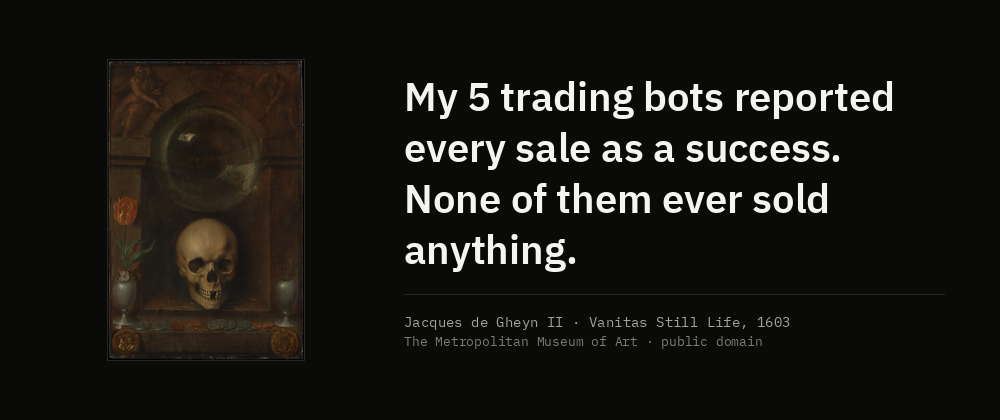
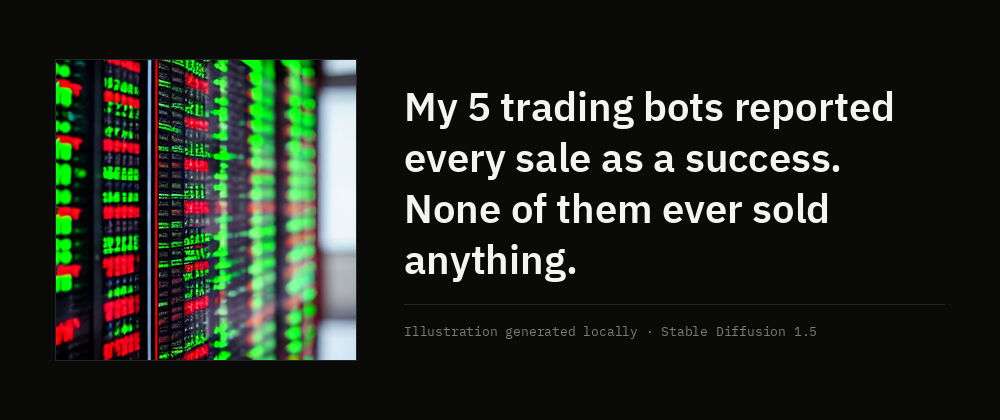
Generated on-topic cover art (SD1.5, local) replacing the Met painting set
Each banner now shows the hardware the article is actually about. Published
under v2-* filenames on purpose: dev.to proxies covers through media2.dev.to
and that proxy caches, so replacing at the same URL keeps serving the old image.

diff --git a/covers.py b/covers.py
@@ -52,6 +52,12 @@ MET = "https://collectionapi.metmuseum.org/public/collection/v1"
 UA = {"User-Agent": "Mozilla/5.0 (X11; Linux x86_64) AppleWebKit/537.36 "
                     "(KHTML, like Gecko) Chrome/125.0 Safari/537.36"}
 CREDIT = "The Metropolitan Museum of Art · public domain"
+# Generated covers get their own credit line. Labelling it is deliberate: the
+# alternative is passing a synthetic image off as a photograph, and several of
+# the channels in reach.py have rules about AI content that are the author's
+# to comply with, not mine to hide.
+GEN_CREDIT = "Illustration generated locally · Stable Diffusion 1.5"
+PROMPTS = os.path.join(ROOT, "artprompts.json")
 
 
 def _font(name, size):
@@ -153,8 +159,10 @@ def compose(title, art, path):
 
     # --- artwork, CONTAINED not cropped ---------------------------------
     box_x, box_y, box_w, box_h = 56, 60, 300, 300
-    raw = Image.open(urllib.request.urlopen(
-        urllib.request.Request(art["image_url"], headers=UA), timeout=60))
+    src = art["image_url"]
+    raw = (Image.open(src[7:]) if src.startswith("file://")
+           else Image.open(urllib.request.urlopen(
+               urllib.request.Request(src, headers=UA), timeout=60)))
     raw = raw.convert("RGB")
     raw.thumbnail((box_w, box_h), Image.LANCZOS)
     ox = box_x + (box_w - raw.width) // 2
@@ -179,8 +187,11 @@ def compose(title, art, path):
     who = art.get("artistDisplayName") or "Unknown artist"
     what = (art.get("title") or "").replace("\n", " ")
     when = art.get("objectDate") or ""
-    cred = f"{who} · {what}" + (f", {when}" if when else "")
-    cred_lines = _wrap(d, cred, fm, tw)[:2]
+    if art.get("artistDisplayName") or art.get("title"):
+        cred = f"{who} · {what}" + (f", {when}" if when else "")
+        cred_lines = _wrap(d, cred, fm, tw)[:2]
+    else:
+        cred_lines = []   # generated art has no artist or date to cite
 
     RULE_GAP, CRED_LH = 20, 20
     block_h = (len(lines) * lh) + RULE_GAP + 18 + (len(cred_lines) * CRED_LH) + 18
@@ -197,7 +208,7 @@ def compose(title, art, path):
     for ln in cred_lines:
         d.text((tx, ty), ln, font=fm, fill=MUTED)
         ty += CRED_LH
-    d.text((tx, ty), CREDIT,
+    d.text((tx, ty), art.get("_credit", CREDIT),
            font=_font("IBMPlexMono-Regular.ttf", 13), fill=FAINT)
 
     os.makedirs(os.path.dirname(path), exist_ok=True)
@@ -259,6 +270,40 @@ def cmd_recompose(ids):
         print(f"{aid}  redrawn  {m['artist']} — {m['artwork']}")
 
 
+def cmd_gen(ids):
+    """Generate an on-topic 512x512 inset per article and compose the banner.
+
+    512 square because the banner's artwork slot is a 300px square and 512 is
+    SD1.5's native size — asking a 1.5 checkpoint for a banner-shaped latent
+    duplicates the subject. At 300px the gibberish silkscreen text that SD1.5
+    always produces is no longer legible, which is why hardware subjects work
+    here and screen-UI subjects do not.
+    """
+    import comfy
+    spec = json.load(open(PROMPTS))
+    neg, style = spec["_negative"], spec["_style"]
+    arts = articles()
+    os.makedirs(OUT, exist_ok=True)
+    man_path = os.path.join(OUT, "manifest.json")
+    man = json.load(open(man_path)) if os.path.exists(man_path) else {}
+    for aid, sp in spec.items():
+        if aid.startswith("_") or (ids and aid not in ids):
+            continue
+        raw = os.path.join(OUT, f"gen-{aid}.png")
+        # Seed from the article id: the same article regenerates identically,
+        # so a rebuild is reproducible rather than a fresh roll of the dice.
+        comfy.generate(sp["p"] + style, neg, int(aid) % 2**31, raw)
+        art = {"image_url": "file://" + raw, "artistDisplayName": None,
+               "title": None, "objectDate": None, "_credit": GEN_CREDIT,
+               "_prompt": sp["p"]}
+        compose(arts[aid]["title"], art, os.path.join(OUT, f"{aid}.png"))
+        man.setdefault(aid, {})
+        man[aid].update({"source": "generated", "prompt": sp["p"],
+                         "file": f"covers/{aid}.png"})
+        print(f"{aid}  generated  {sp['p'][:58]}")
+    json.dump(man, open(man_path, "w"), indent=1)
+
+
 def cmd_push():
     subprocess.run(["git", "add", "covers"], cwd=ROOT, check=True)
     subprocess.run(["git", "commit", "-m",
@@ -267,24 +312,64 @@ def cmd_push():
     subprocess.run(["git", "push", "origin", BRANCH], cwd=ROOT, check=True)
 
 
-def raw_url(aid):
-    return f"https://raw.githubusercontent.com/{REPO}/{BRANCH}/covers/{aid}.png"
+def raw_url(aid, man=None):
+    """⚠ The filename is read from the manifest, NOT built from the id.
+
+    dev.to does not store the cover — it proxies it through media2.dev.to with
+    the origin URL embedded, and that proxy CACHES. Replacing a cover at the
+    SAME url therefore keeps serving the old image for as long as the cache
+    holds. A new generation must land on a new path so the url itself changes.
+    """
+    man = man or json.load(open(os.path.join(OUT, "manifest.json")))
+    f = man[aid].get("file", f"covers/{aid}.png")
+    return f"https://raw.githubusercontent.com/{REPO}/{BRANCH}/{f}"
 
 
 def cmd_apply(ids):
+    """Set each article's cover, idempotently.
+
+    ⚠ dev.to rate-limits article UPDATES hard — a straight loop over 17
+    articles gets HTTP 429 on roughly half of them. So: re-read what is
+    already set and skip it (this is safe to re-run), space the writes out,
+    and back off on a 429 rather than burning the attempt.
+    """
     k = hs.get("dev-to", path="/Devto")
     man = json.load(open(os.path.join(OUT, "manifest.json")))
+    live = {str(a["id"]): a for a in requests.get(
+        "https://dev.to/api/articles/me/all", headers={"api-key": k},
+        params={"per_page": 100}, timeout=30).json()}
+
+    todo = []
     for aid in man:
         if ids and aid not in ids:
             continue
-        r = requests.put(f"https://dev.to/api/articles/{aid}",
-                         headers={"api-key": k},
-                         json={"article": {"main_image": raw_url(aid)}}, timeout=30)
-        print(f"{aid}  HTTP {r.status_code}  {raw_url(aid)}")
+        # The cover comes back wrapped in dev.to's image proxy, so the test is
+        # "does the current cover point at our file", not string equality.
+        cur = live.get(aid, {}).get("cover_image") or ""
+        if man[aid]["file"] in urllib.parse.unquote(cur):
+            print(f"{aid}  already set — skipped")
+            continue
+        todo.append(aid)
+
+    for n, aid in enumerate(todo):
+        for attempt in range(6):
+            r = requests.put(f"https://dev.to/api/articles/{aid}",
+                             headers={"api-key": k},
+                             json={"article": {"main_image": raw_url(aid, man)}}, timeout=30)
+            if r.status_code == 429:
+                wait = 20 * (attempt + 1)
+                print(f"{aid}  429, waiting {wait}s")
+                time.sleep(wait)
+                continue
+            print(f"{aid}  HTTP {r.status_code}  {raw_url(aid, man)}")
+            break
+        if n < len(todo) - 1:
+            time.sleep(12)
 
 
 if __name__ == "__main__":
     cmd = sys.argv[1]
     rest = sys.argv[2:]
     {"build": cmd_build, "apply": cmd_apply,
-     "recompose": cmd_recompose}.get(cmd, lambda _: cmd_push())(rest)
+     "recompose": cmd_recompose,
+     "gen": cmd_gen}.get(cmd, lambda _: cmd_push())(rest)

diff --git a/comfy.py b/comfy.py
@@ -1,0 +1,69 @@
+#!/usr/bin/env python3
+"""Minimal ComfyUI txt2img client for cover insets.
+
+Square 512x512 on purpose: the banner's artwork slot is a 300px square, and
+512 is SD1.5's native training size — asking a 1.5 checkpoint for a wide
+banner-shaped latent is what produces duplicated subjects and mush.
+"""
+import json, sys, time, urllib.parse, urllib.request, uuid
+
+HOST = "http://127.0.0.1:8188"
+CKPT = "v1-5-pruned-emaonly.safetensors"
+
+
+def _post(path, payload):
+    r = urllib.request.urlopen(urllib.request.Request(
+        HOST + path, data=json.dumps(payload).encode(),
+        headers={"Content-Type": "application/json"}), timeout=60)
+    return json.loads(r.read())
+
+
+def generate(prompt, negative, seed, out_path, steps=30, cfg=7.5):
+    cid = str(uuid.uuid4())
+    wf = {
+        "1": {"class_type": "CheckpointLoaderSimple",
+              "inputs": {"ckpt_name": CKPT}},
+        "2": {"class_type": "CLIPTextEncode",
+              "inputs": {"text": prompt, "clip": ["1", 1]}},
+        "3": {"class_type": "CLIPTextEncode",
+              "inputs": {"text": negative, "clip": ["1", 1]}},
+        "4": {"class_type": "EmptyLatentImage",
+              "inputs": {"width": 512, "height": 512, "batch_size": 1}},
+        "5": {"class_type": "KSampler",
+              "inputs": {"seed": seed, "steps": steps, "cfg": cfg,
+                         "sampler_name": "dpmpp_2m", "scheduler": "karras",
+                         "denoise": 1.0, "model": ["1", 0],
+                         "positive": ["2", 0], "negative": ["3", 0],
+                         "latent_image": ["4", 0]}},
+        "6": {"class_type": "VAEDecode",
+              "inputs": {"samples": ["5", 0], "vae": ["1", 2]}},
+        "7": {"class_type": "SaveImage",
+              "inputs": {"filename_prefix": "cover", "images": ["6", 0]}},
+    }
+    # ⚠ /history is keyed on the SERVER's prompt_id, not the client_id you
+    # send. Polling for your own client_id matches nothing and spins forever
+    # while the job has already finished.
+    pid = _post("/prompt", {"prompt": wf, "client_id": cid})["prompt_id"]
+    for _ in range(180):
+        time.sleep(2)
+        h = json.loads(urllib.request.urlopen(
+            f"{HOST}/history/{pid}", timeout=30).read())
+        run = h.get(pid)
+        if not run:
+            continue
+        outs = run.get("outputs", {}).get("7", {}).get("images", [])
+        if outs:
+            im = outs[0]
+            q = urllib.parse.urlencode({"filename": im["filename"],
+                                        "subfolder": im.get("subfolder", ""),
+                                        "type": im.get("type", "output")})
+            open(out_path, "wb").write(
+                urllib.request.urlopen(HOST + "/view?" + q, timeout=60).read())
+            return out_path
+    raise SystemExit("timed out waiting for ComfyUI")
+
+
+if __name__ == "__main__":
+    import urllib.parse
+    generate(sys.argv[1], sys.argv[2], int(sys.argv[3]), sys.argv[4])
+    print("wrote", sys.argv[4])
